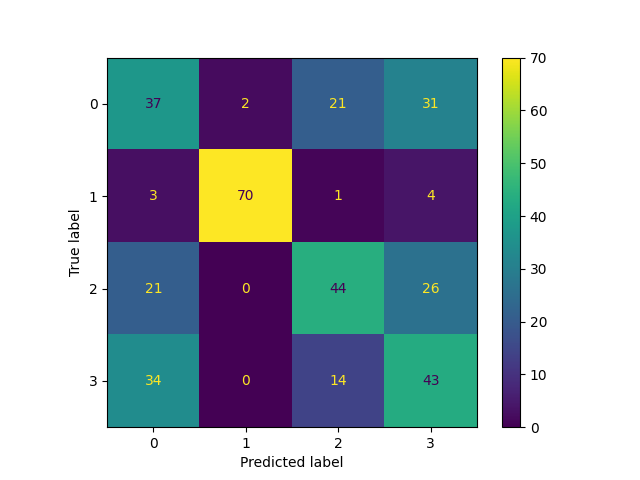
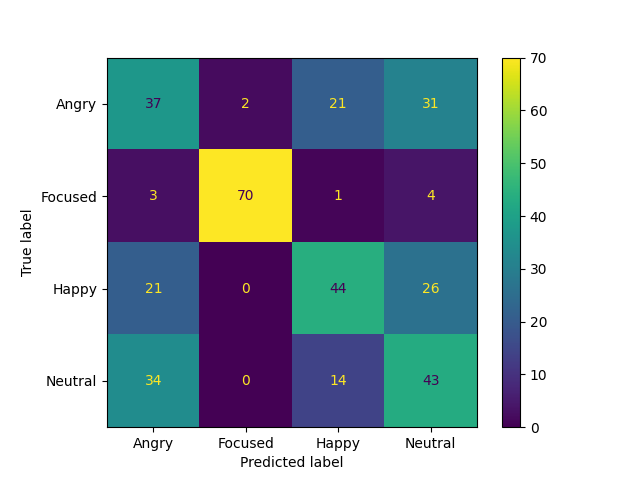
Fixed Bug

diff --git a/ModelEvaluator.py b/ModelEvaluator.py
@@ -105,7 +105,7 @@ def evaluate(path):
     cmMatrix = confusion_matrix(real, prediction)
 
     #Generate labels
-    labels = {0: "Angry", 1: "Focused", 2: "Happy", 3: "Neutral"}
+    labels = ["Angry", "Focused","Happy", "Neutral"]
 
     #Generate Display
     display = metrics.ConfusionMatrixDisplay(confusion_matrix=cmMatrix, display_labels=labels)
